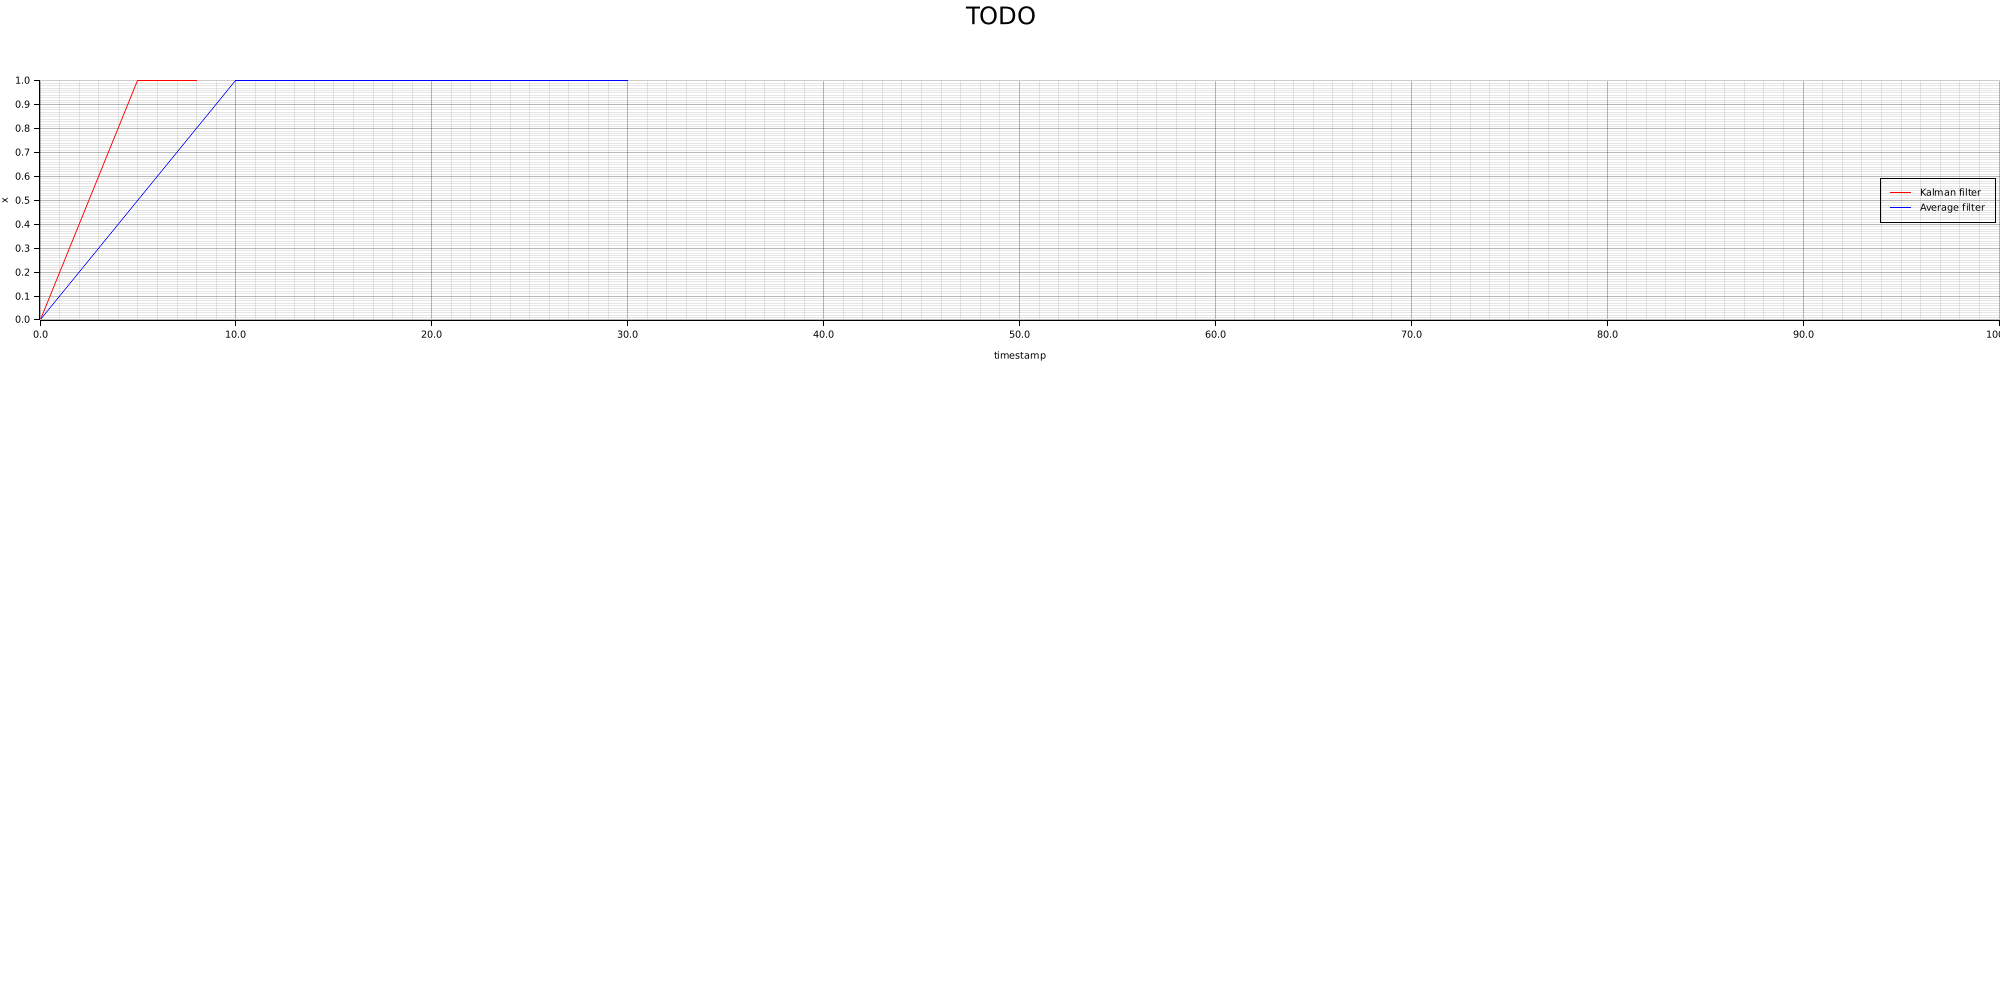
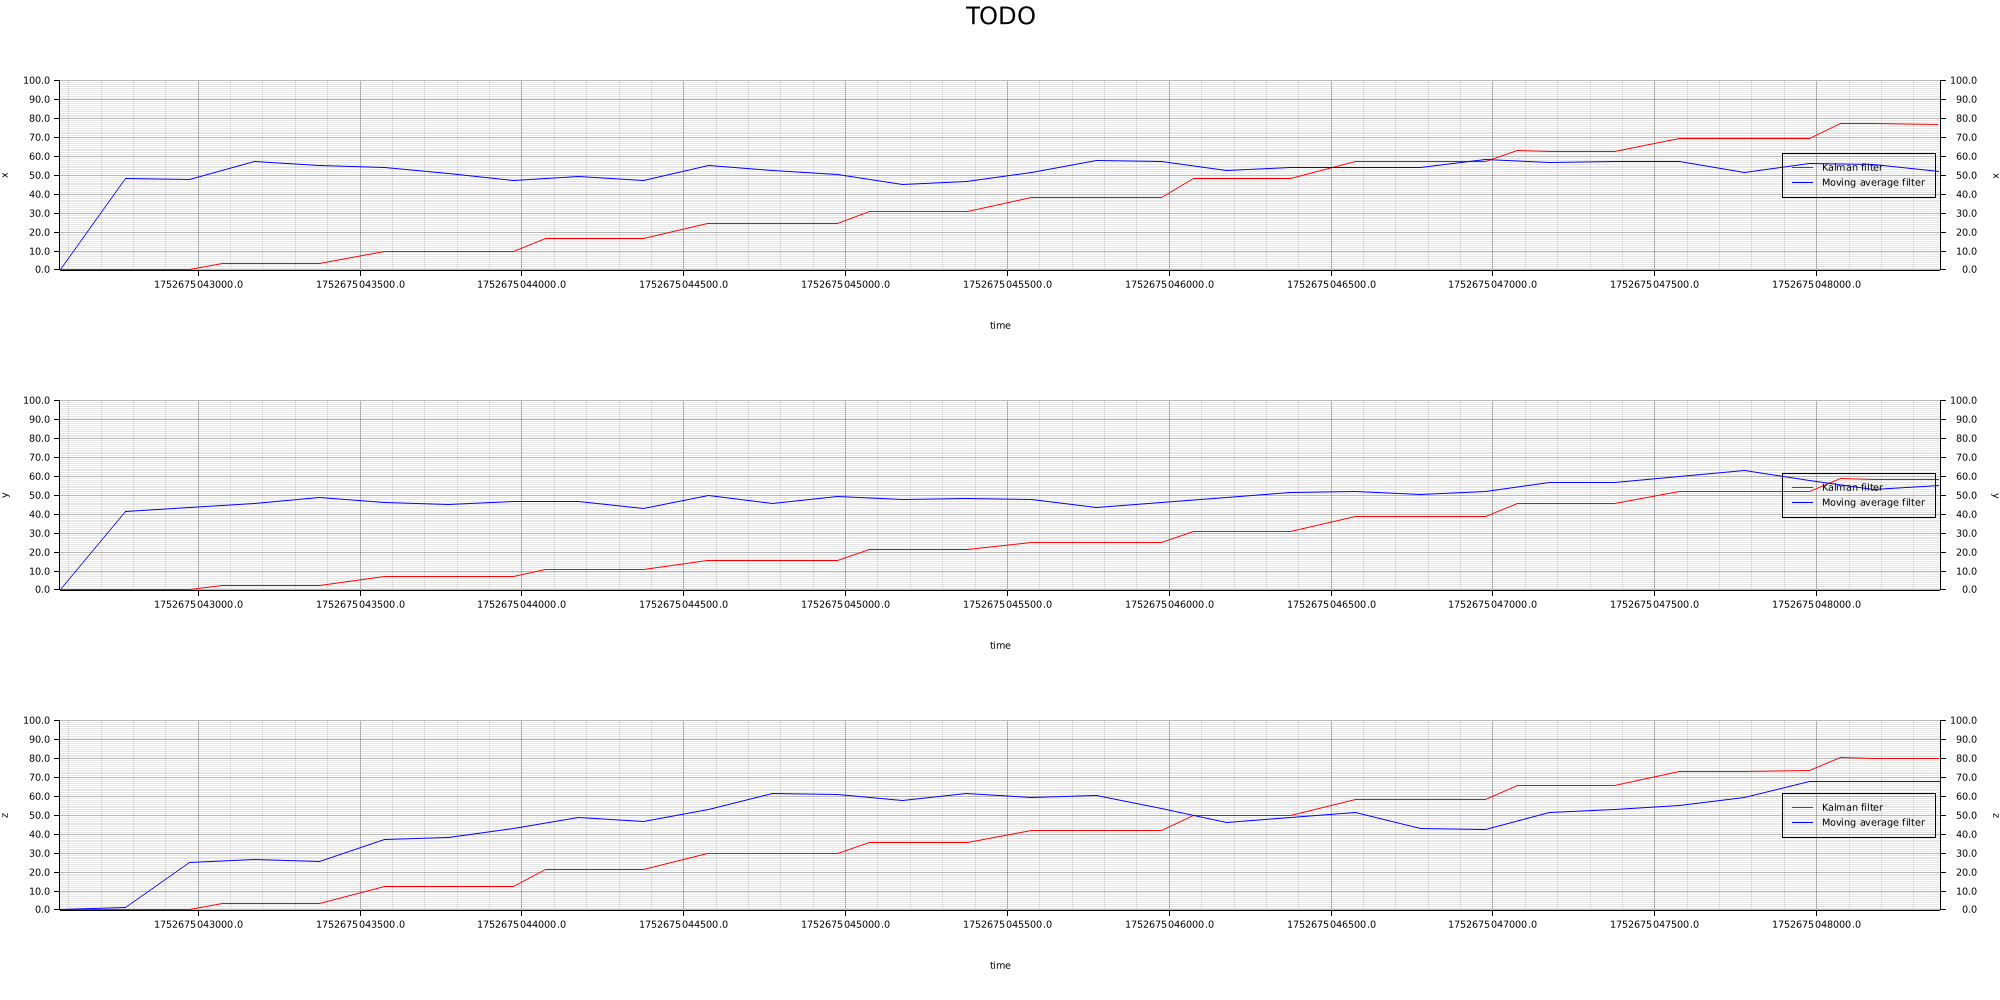
add plot gen position avg and kalman filter

diff --git a/src/visualization.rs b/src/visualization.rs
@@ -3,48 +3,135 @@ use crate::{
     imu,
 };
 use plotters::{data, prelude::*};
-use rand::Rng;
-use std::{thread, time::{SystemTime, UNIX_EPOCH}};
 use std::{
     sync::{
         atomic::{AtomicBool, Ordering},
-        mpsc, Arc, Mutex,
+        mpsc::{Sender, Receiver},
     },
-    thread::{JoinHandle},
+    thread::JoinHandle,
 };
+use std::{
+    thread,
+    time::{SystemTime, UNIX_EPOCH},
+};
+use plotters::coord::Shift;
 
-use crate::{
-    communication_registry::{CommunicationRegistry, DataSource},
-};
 
 #[allow(unused)]
 pub struct Visualization;
 
 impl Visualization {
-    pub fn consume_data_for_visualization(source: DataSource, consumer_registry: &mut CommunicationRegistry) -> JoinHandle<()> {
-        let (tx, input_rx) = mpsc::channel();
-        consumer_registry.register_for_input(source, tx);
-        let mut buffer = Vec::new();
+    pub fn run(rx_avg: Receiver<Telemetry>, rx_kalman: Receiver<Telemetry>) -> JoinHandle<()> {
+        let mut avg_data = Vec::new();
+        let mut kalman_data = Vec::new();
 
         let handle = thread::spawn(move || {
-        for data in input_rx {
-            match data {
-                Telemetry::Acceleration(d) => {
-                    buffer.push(d);
-
-                }
-                Telemetry::Position(d) => {
-                    buffer.push(d);
+            for data in rx_avg {
+                match data {
+                    Telemetry::Position(d) => {
+                        avg_data.push(d);
+                    }
+                    Telemetry::Acceleration(d) => {
+                        //avg_data.push(data);
+                    }
                 }
             }
-        }
-        println!("Channel has been closed, exiting the thread.");
-    });
-    handle
+
+            for data in rx_kalman {
+                match data {
+                    Telemetry::Position(d) => {
+                        kalman_data.push(d);
+                    }
+                    Telemetry::Acceleration(d) => {
+                        //avg_data.push(data);
+                    }
+                }
+            }
+
+            draw(avg_data, kalman_data);
+            println!("Visualization removed");
+        });
+        handle
     }
 }
 
-fn draw() {
+fn select_xyz(coord_to_plot: &str, p: Data) -> f64 {
+    if coord_to_plot == "x" {
+        p.x
+    } else if coord_to_plot == "y" {
+        p.y
+    } else {
+        p.z
+    }
+}
+
+fn create_plot(root: DrawingArea<BitMapBackend<'_>, Shift>, coord_to_plot: &str, avg_data: &Vec<Data>, kalman_data: &Vec<Data>) {
+
+    let plot_start = avg_data[0]
+        .timestamp
+        .duration_since(UNIX_EPOCH)
+        .unwrap()
+        .as_millis() as f64;
+    let plot_stop = avg_data
+        .last()
+        .unwrap()
+        .timestamp
+        .duration_since(UNIX_EPOCH)
+        .unwrap()
+        .as_millis() as f64;
+
+    let mut chart = ChartBuilder::on(&root)
+        .x_label_area_size(60)
+        .y_label_area_size(60)
+        .right_y_label_area_size(60)
+        .margin_bottom(30)
+        .build_cartesian_2d(plot_start..plot_stop, 0f64..100f64)
+        .unwrap();
+
+    chart
+        .configure_mesh()
+        .x_desc("time")
+        .y_desc(coord_to_plot)
+        .draw()
+        .unwrap();
+
+    chart
+        .draw_series(LineSeries::new(
+            kalman_data.iter().map(|p| {
+                (
+                    p.timestamp.duration_since(UNIX_EPOCH).unwrap().as_millis() as f64,
+                    select_xyz(coord_to_plot, *p),
+                )
+            }),
+            &RED,
+        ))
+        .unwrap()
+        .label("Kalman filter")
+        .legend(|(x, y)| PathElement::new(vec![(x, y), (x + 20, y)], RED)); //TODO: investigate PathElem::new
+
+    chart
+        .draw_series(LineSeries::new(
+            avg_data.iter().map(|p| {
+                (
+                    p.timestamp.duration_since(UNIX_EPOCH).unwrap().as_millis() as f64,
+                    select_xyz(coord_to_plot, *p),
+                )
+            }),
+            &BLUE,
+        ))
+        .unwrap()
+        .label("Moving average filter")
+        .legend(|(x, y)| PathElement::new(vec![(x, y), (x + 20, y)], BLUE));
+
+    chart
+        .configure_series_labels()
+        .border_style(BLACK)
+        .background_style(WHITE.mix(0.0))
+        .draw()
+        .unwrap()
+}
+
+fn draw(avg_data: Vec<Data>, kalman_data: Vec<Data>) {
     let sensor_name = "TODO";
     let complete_plot_name = format!("output/{sensor_name}.png"); //TODO:add error handling if dir is not available?
 
@@ -55,46 +142,13 @@ fn draw() {
     upper.titled("TODO", ("comic-sans", 30)).unwrap();
 
     let split_in_3 = lower.split_evenly((3, 1));
-    let (upper_0, lower_0) = split_in_3[0].split_vertically(40);
-    let (upper_1, lower_1) = split_in_3[1].split_vertically(40);
-    let (upper_2, lower_2) = split_in_3[2].split_vertically(40);
+    let (_, lower_0) = split_in_3[0].split_vertically(40);
+    let (_, lower_1) = split_in_3[1].split_vertically(40);
+    let (_, lower_2) = split_in_3[2].split_vertically(40);
 
-    let mut chart_lower_0 = ChartBuilder::on(&lower_0)
-        .x_label_area_size(40)
-        .y_label_area_size(40)
-        .build_cartesian_2d(0f64..100f64, 0f64..1f64)
-        .unwrap();
-
-    chart_lower_0
-        .configure_mesh()
-        .x_desc("timestamp")
-        .y_desc("x")
-        .draw()
-        .unwrap();
-
-    chart_lower_0
-        .draw_series(LineSeries::new(
-            vec![(0.0, 0.0), (5.0, 5.0), (8.0, 7.0)],
-            &RED,
-        ))
-        .unwrap()
-        .label("Kalman filter")
-        .legend(|(x, y)| PathElement::new(vec![(x, y), (x + 20, y)], RED)); //TODO: investigate PathElem::new
-
-    chart_lower_0
-        .draw_series(LineSeries::new(
-            vec![(0.0, 0.0), (10.0, 5.0), (30.0, 7.0)],
-            &BLUE,
-        ))
-        .unwrap()
-        .label("Average filter")
-        .legend(|(x, y)| PathElement::new(vec![(x, y), (x + 20, y)], BLUE));
-
-    chart_lower_0.configure_series_labels()
-        .border_style(&BLACK)
-        .background_style(&WHITE.mix(0.0))
-        .draw()
-        .unwrap()
+    create_plot(lower_0, "x", &avg_data, &kalman_data);
+    create_plot(lower_1, "y", &avg_data, &kalman_data);
+    create_plot(lower_2, "z", &avg_data, &kalman_data);
 }
 
 #[cfg(test)]
@@ -103,7 +157,7 @@ mod tests {
 
     #[test]
     fn dummy() {
-        draw();
+        //draw();
         assert!(true);
     }
 }

diff --git a/src/main.rs b/src/main.rs
@@ -16,6 +16,7 @@ use crate::{
     kalman::KalmanFilter,
     logger::{get_data, log},
     trajectory_generator::TrajectoryGeneratorBuilder,
+    visualization::Visualization,
 };
 
 use chrono::{DateTime, Local};
@@ -109,6 +110,18 @@ fn start_avg_filter(
     }
 }
 
+fn start_visualization(
+    communication_registry: &mut CommunicationRegistry,
+) -> JoinHandle<()>  {
+    let (tx_avg, rx_avg) = mpsc::channel();
+    let (tx_kalman, rx_kalman) = mpsc::channel();
+    communication_registry.register_for_input(DataSource::Average, tx_avg);
+    communication_registry.register_for_input(DataSource::Kalman, tx_kalman);
+
+    Visualization::run(rx_avg, rx_kalman)
+
+}
+
 fn create_data_consumer(
     source: DataSource,
     consumer_registry: &mut CommunicationRegistry,
@@ -165,8 +178,9 @@ fn main() -> Result<(), Error> {
         create_data_consumer(DataSource::Kalman, &mut communication_registry);
     let consumer3_handle = create_data_consumer(DataSource::Average, &mut communication_registry);
 
+    let visu_handle = start_visualization(&mut communication_registry);
     let kalman_handle = start_kalman(&mut communication_registry)?;
-
+    
     let avg_handle = start_avg_filter(&mut communication_registry)?;
     let (generated_data_handle, generator_handle) = TrajectoryGeneratorBuilder::new()
         .with_frequency(GENERATOR_FREQ)
@@ -193,6 +207,7 @@ fn main() -> Result<(), Error> {
     avg_handle.join().unwrap();
     placeholder_consumer_handle.join().unwrap();
     consumer3_handle.join().unwrap();
+    visu_handle.join().unwrap();
 
     let consumers = get_data::<DataSource>("Consumers");
 

diff --git a/src/communication_registry.rs b/src/communication_registry.rs
@@ -11,6 +11,7 @@ pub enum DataSource {
     Gps,
     Kalman,
     Average,
+    Visualization,
 }
 
 pub struct CommunicationRegistry {
